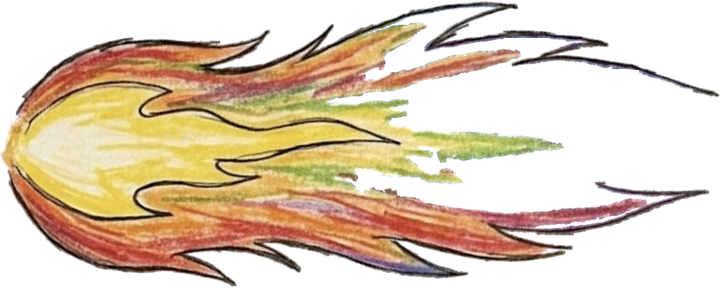
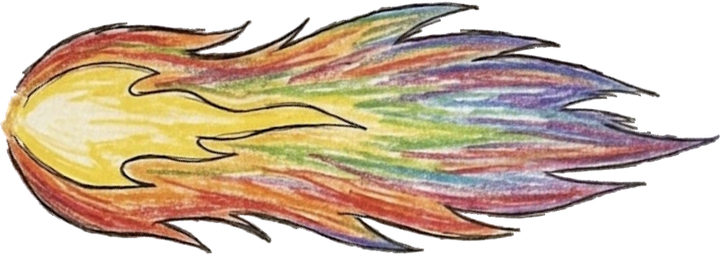
feat: re-cut the dragon fire from a new drawing, sealing outline gaps
Replace the fire drawing and seal its pencil outline before flooding away the paper, since the gaps let the flood eat most of the flame's pale middle and tips; only the fire was regenerated.

diff --git a/tools/art/extract.py b/tools/art/extract.py
@@ -67,6 +67,8 @@ BINS = [
 # Where to look for the separately drawn pieces in the layout
 PEEL_REGION = (560, 500, 1760, 1792)
 DRAGON_REGION = (1700, 560, 2390, 1792)
+FIRE_SOURCE = 'pizza_dragon_fire.png'
+FIRE_SEAL = 2  # its pencil outline has gaps the paper would flood through, px
 FIRE_OUTPUT_LENGTH = 720  # px along the flame axis; drawn length is set in code
 # Bake gauge pieces share one scale so they stay aligned; their positions are in gauge space, placed in code
 GAUGE_SOURCE = 'pizza_bake_gauge.jpeg'
@@ -603,9 +605,9 @@ def main():
         place(name, cutout(img, paper, mask), f * s, origin=(x - ml * s, y - mt * s), src_to_layout=s)
 
     # Fire: oriented to point left, sized in code
-    img = load('pizza_dragon_fire.jpg')
+    img = load(FIRE_SOURCE)
     paper = estimate_paper(img)
-    pixels = orient_fire(cutout(img, paper, largest(foreground(img, paper, use_chroma=True))))
+    pixels = orient_fire(cutout(img, paper, largest(foreground(img, paper, use_chroma=True, seal=FIRE_SEAL))))
     l, t, r, b = bbox(pixels[..., 3])
     save('fire', pixels, FIRE_OUTPUT_LENGTH / (r - l))
     record('fire', 'fire.png')
